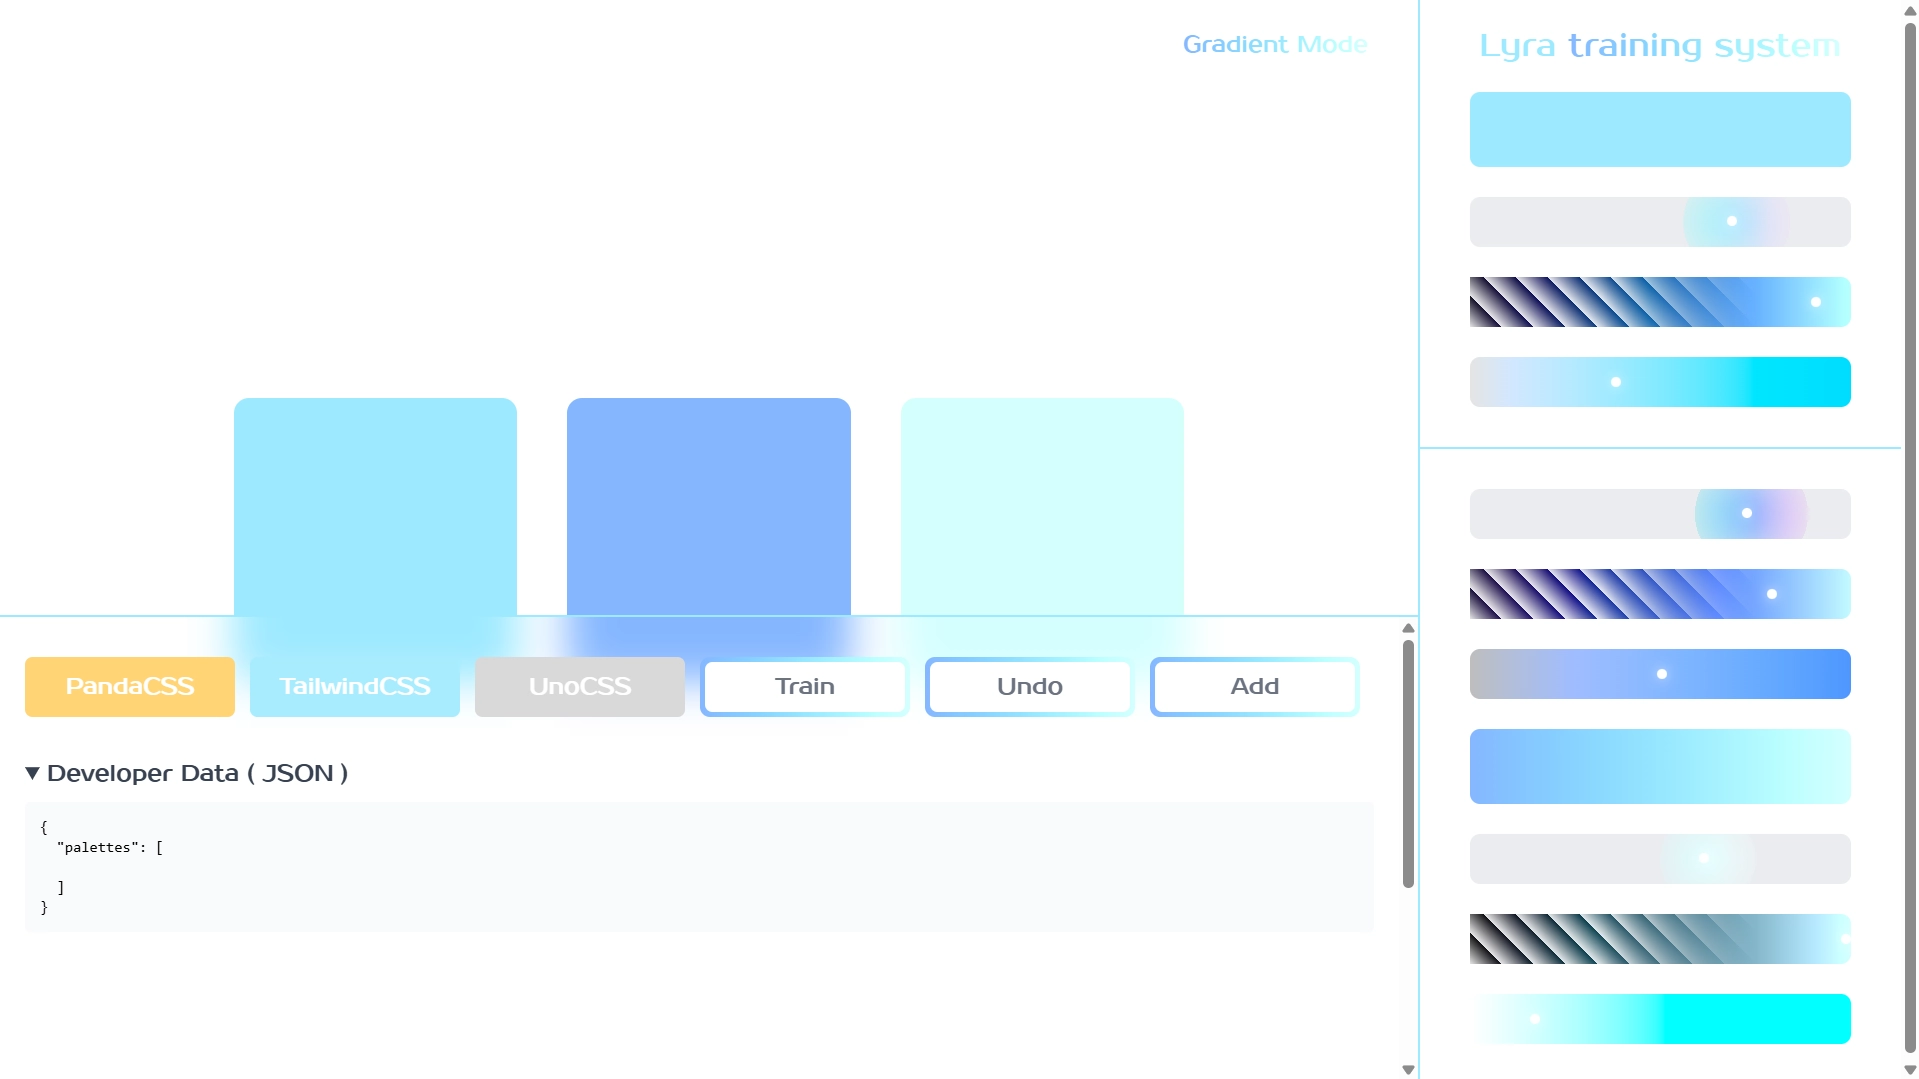
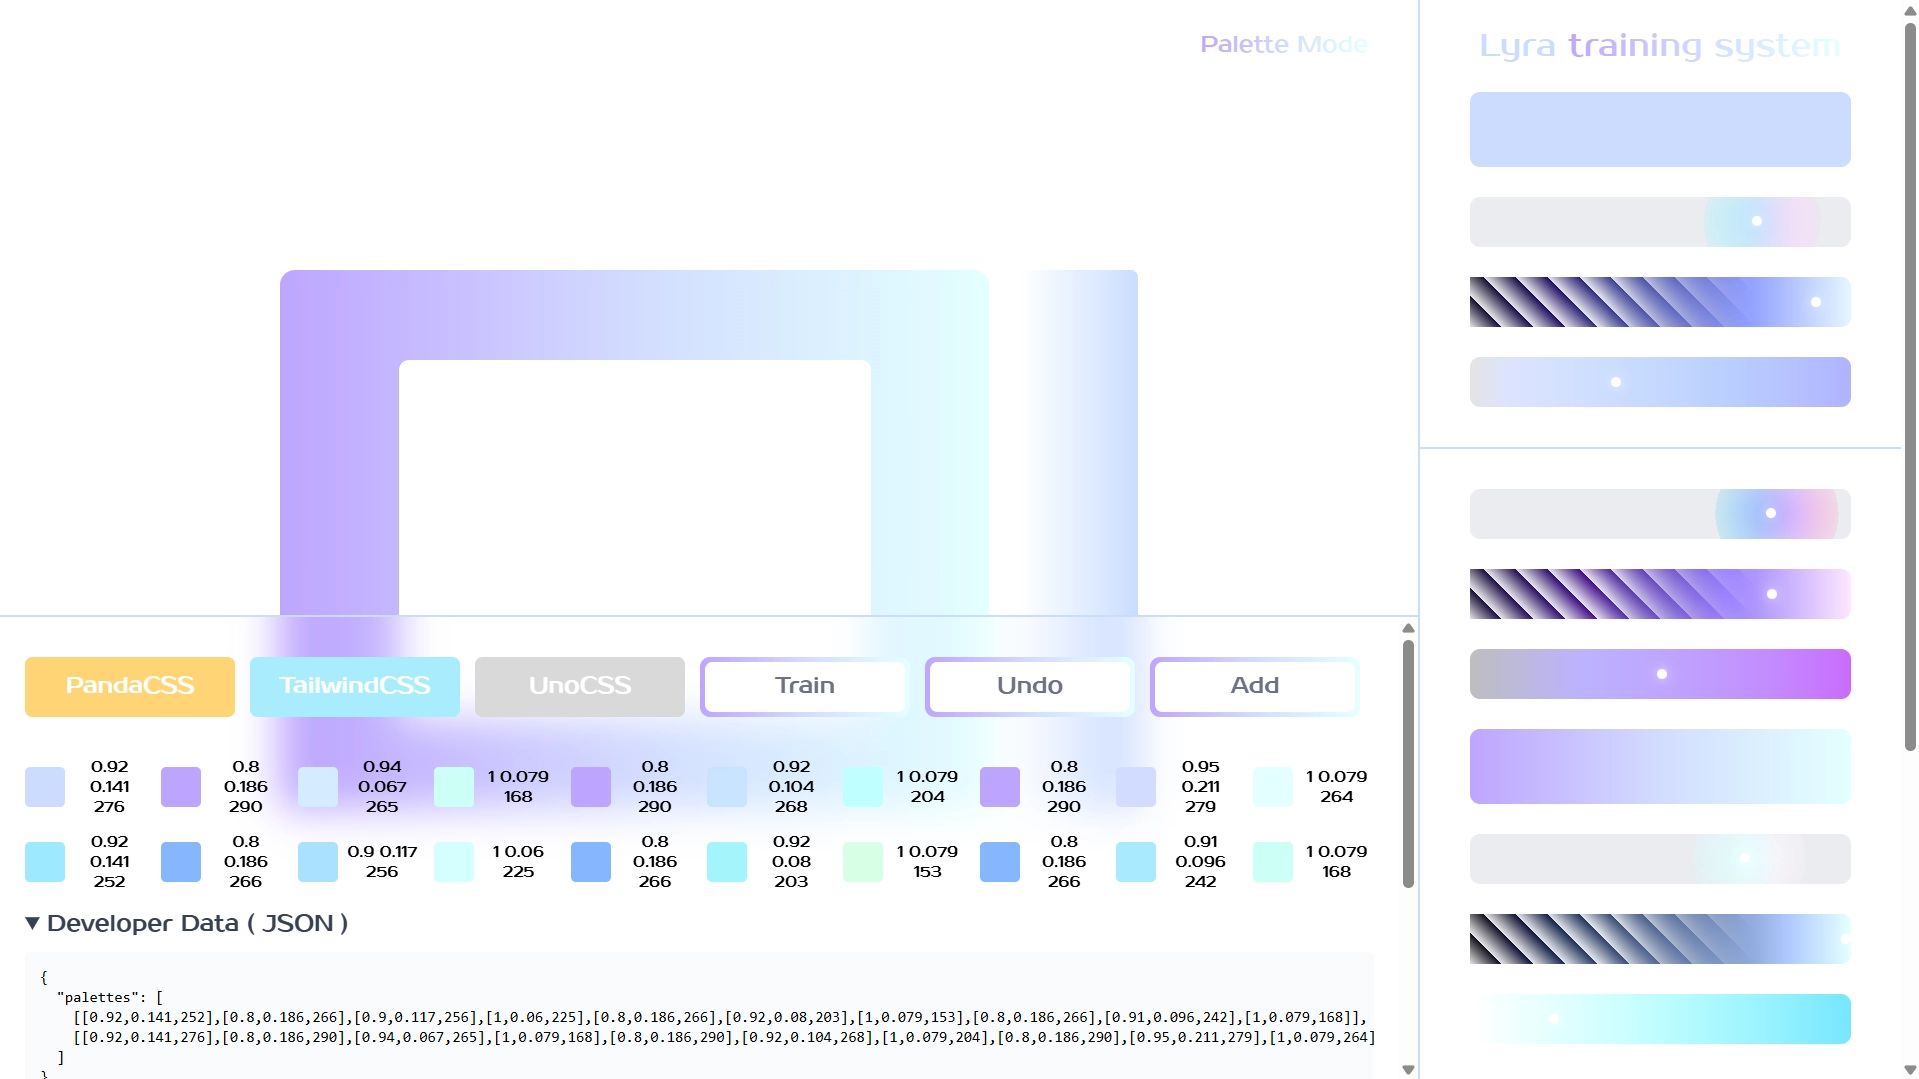
[feat] add inspect code for Lyra Model structures. update new version README & showcase

diff --git a/README.md b/README.md
@@ -31,11 +31,11 @@ Lyra uses React, UnoCSS for Training-GUI Design. And uses Vite as build tool. Re
 
 ## How To Train
 
-1. Install Julia : [https://julialang.org/](https://julialang.org/)
+#### 1. Install Julia : [https://julialang.org/](https://julialang.org/)
 
-2. Download or git clone this project
+#### 2. Download or git clone this project
 
-3. cd project root & run below : 
+#### 3. cd project root & run below : 
 
 `julia`
 
@@ -51,17 +51,17 @@ and press `backspace` to close pkg mode
 
 press `Ctrl + D` to close Julia REPL
 
-4. Start training, here are 3 different ways : 
+#### 4. Start training, here are 3 different ways : 
 
 ### Option 1. Training via GUI ( Recommended )
 
 ![GUI-01](https://github.com/zzztzzzt/Lyra-AI/blob/main/training_showcase/gui-01.webp)
 
-### ( You can change training mode ( Palette or Gradient ) to fit your color-set style )
+#### ( You can change training mode ( Palette or Gradient ) to fit your color-set style )
 
 ![GUI-02](https://github.com/zzztzzzt/Lyra-AI/blob/main/training_showcase/gui-02.webp)
 
-1. Let your CLI / shell go into folder `/LyraBackend/`. And run below : 
+#### 1. Let your CLI / shell go into folder `/LyraBackend/`. And run below : 
 
 `( Genie Backend is in different environment, so even you already ran below command at project root, you still need to run it again here. )`
 
@@ -89,9 +89,9 @@ press `backspace`
 
 and then your backend app is running now
 
-2. Download Node.js : [https://nodejs.org/](https://nodejs.org/)
+#### 2. Download Node.js : [https://nodejs.org/](https://nodejs.org/)
 
-3. Open another CLI / shell, go into project root folder, then go into folder `/LyraGUI/`. And run below : 
+#### 3. Open another CLI / shell, go into project root folder, then go into folder `/LyraGUI/`. And run below : 
 
 `npm install`
 
@@ -107,14 +107,14 @@ modify `training_data_example_oklch.json` at project root
 
 JSON fromat example is at below, here are 2 ways to build dataset : 
 
-1. OKLCH
+#### 1. OKLCH
 
 ```json
 
 {
     "palettes": [
-        [[0.92,0.141,252],[0.8,0.186,266],[1,0.06,225],[0.8,0.186,266],[1,0.131,225],[0.8,0.125,248],[1,0.131,225]],
-        [[0.92,0.141,154],[0.92,0.131,164],[0.89,0.148,192],[0.92,0.131,164],[0.89,0.148,145],[0.92,0.192,194],[0.89,0.148,145]]
+        [[0.92,0.141,252],[0.8,0.186,266],[0.9,0.117,256],[1,0.06,225],[0.8,0.186,266],[0.92,0.08,203],[1,0.079,153],[0.8,0.186,266],[0.91,0.096,242],[1,0.079,168]],
+        [[0.92,0.141,276],[0.8,0.186,290],[0.94,0.067,265],[1,0.079,168],[0.8,0.186,290],[0.92,0.104,268],[1,0.079,204],[0.8,0.186,290],[0.95,0.211,279],[1,0.079,264]]
     ]
 }
 
@@ -126,7 +126,7 @@ in project folder, command below
 
 OR
 
-2. HEX
+#### 2. HEX ( Legacy )
 
 ```json
 
@@ -175,7 +175,9 @@ run `julia --project=. scripts/predict.jl` to test
 
 ## Project Detail / Debug
 
-1. Now /src/ folder have 2 customized pkg ( `LyraUtils` & `LyraDataTrain` ). To add new pkg, you need to run below at /src/ : 
+### Add Custom pkg :
+
+Now /src/ folder have 2 customized pkg ( `LyraUtils` & `LyraDataTrain` ). To add new pkg, you need to run below at /src/ : 
 
 `julia`
 
@@ -183,7 +185,9 @@ run `julia --project=. scripts/predict.jl` to test
 
 ( all your jl codes needs to be `module` type )
 
-2. If you add any new dependencies into your customized pkg's `project.toml`, you need to run below command on `every environment` which is using your customized pkg ( or it won't auto update )
+### If your Custom pkg has new Dependencies :
+
+If you add any new dependencies into your customized pkg's `project.toml`, you need to run below command on `every environment` which is using your customized pkg ( or it won't auto update )
 
 `julia`
 
@@ -191,7 +195,9 @@ run `julia --project=. scripts/predict.jl` to test
 
 `dev src/YourNewPkgName`
 
-3. If your pkg problems still exist, try below command too : 
+### Resolve pkg problems :
+
+If your pkg problems still exist, try below command too : 
 
 ( it will check the package dependencies )
 
@@ -201,7 +207,9 @@ run `julia --project=. scripts/predict.jl` to test
 
 `resolve`
 
-4. At LyraBackend ( Genie.jl ), if you want to create new Controller & resource, run below at /LyraBackend/ : 
+### Add new Controller & resource to Genie
+
+At LyraBackend ( Genie.jl ), if you want to create new Controller & resource, run below at /LyraBackend/ : 
 
 `julia --project=.`
 
